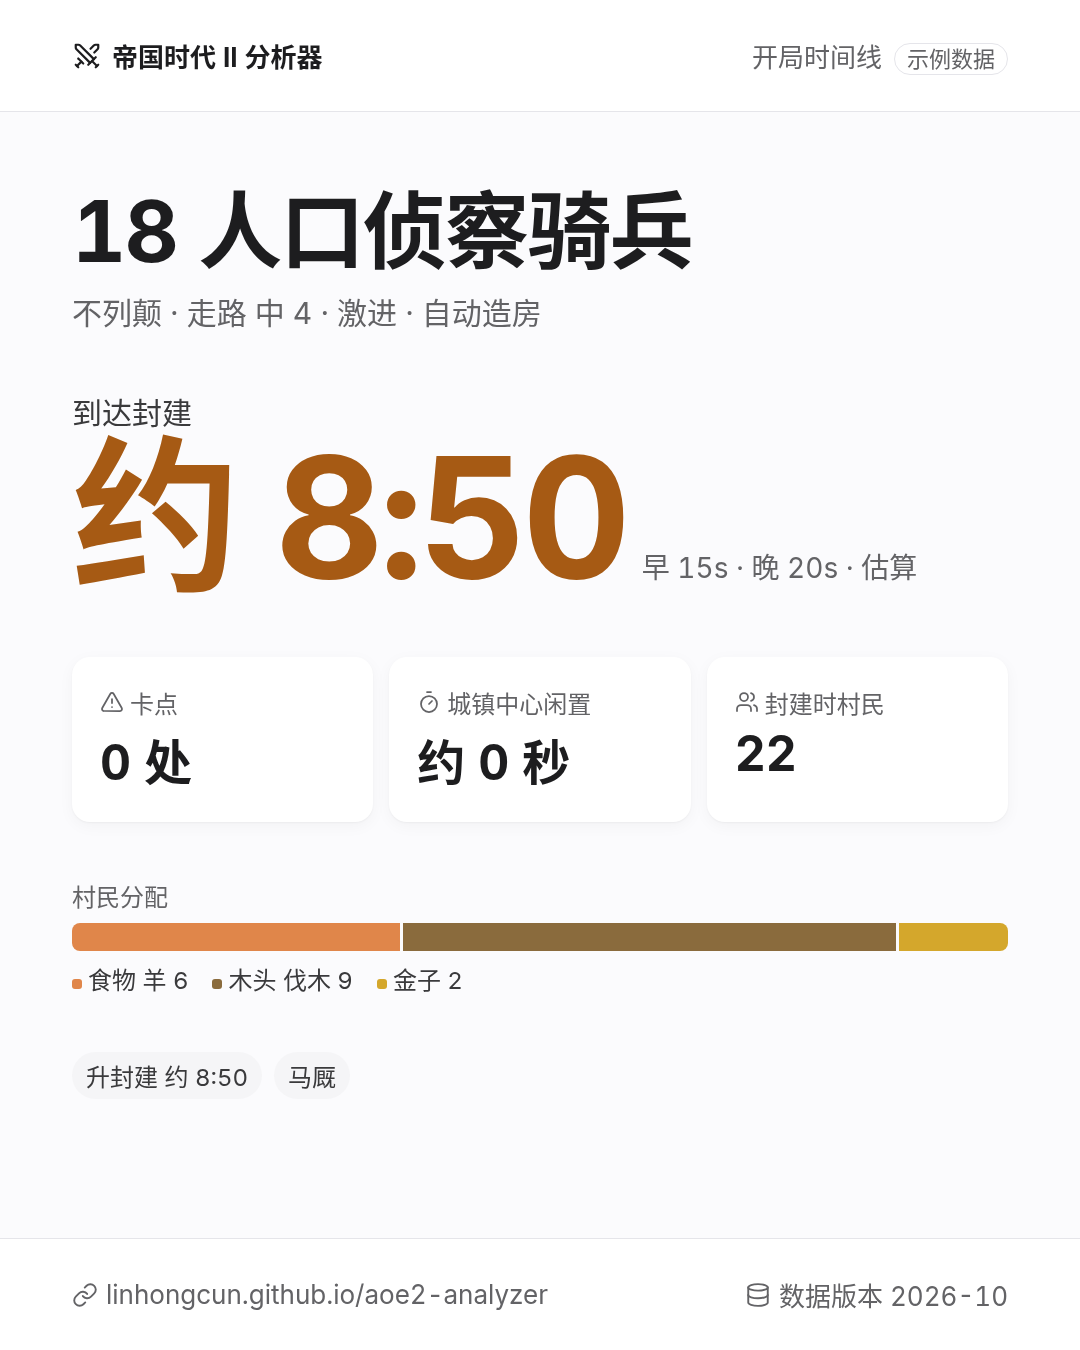
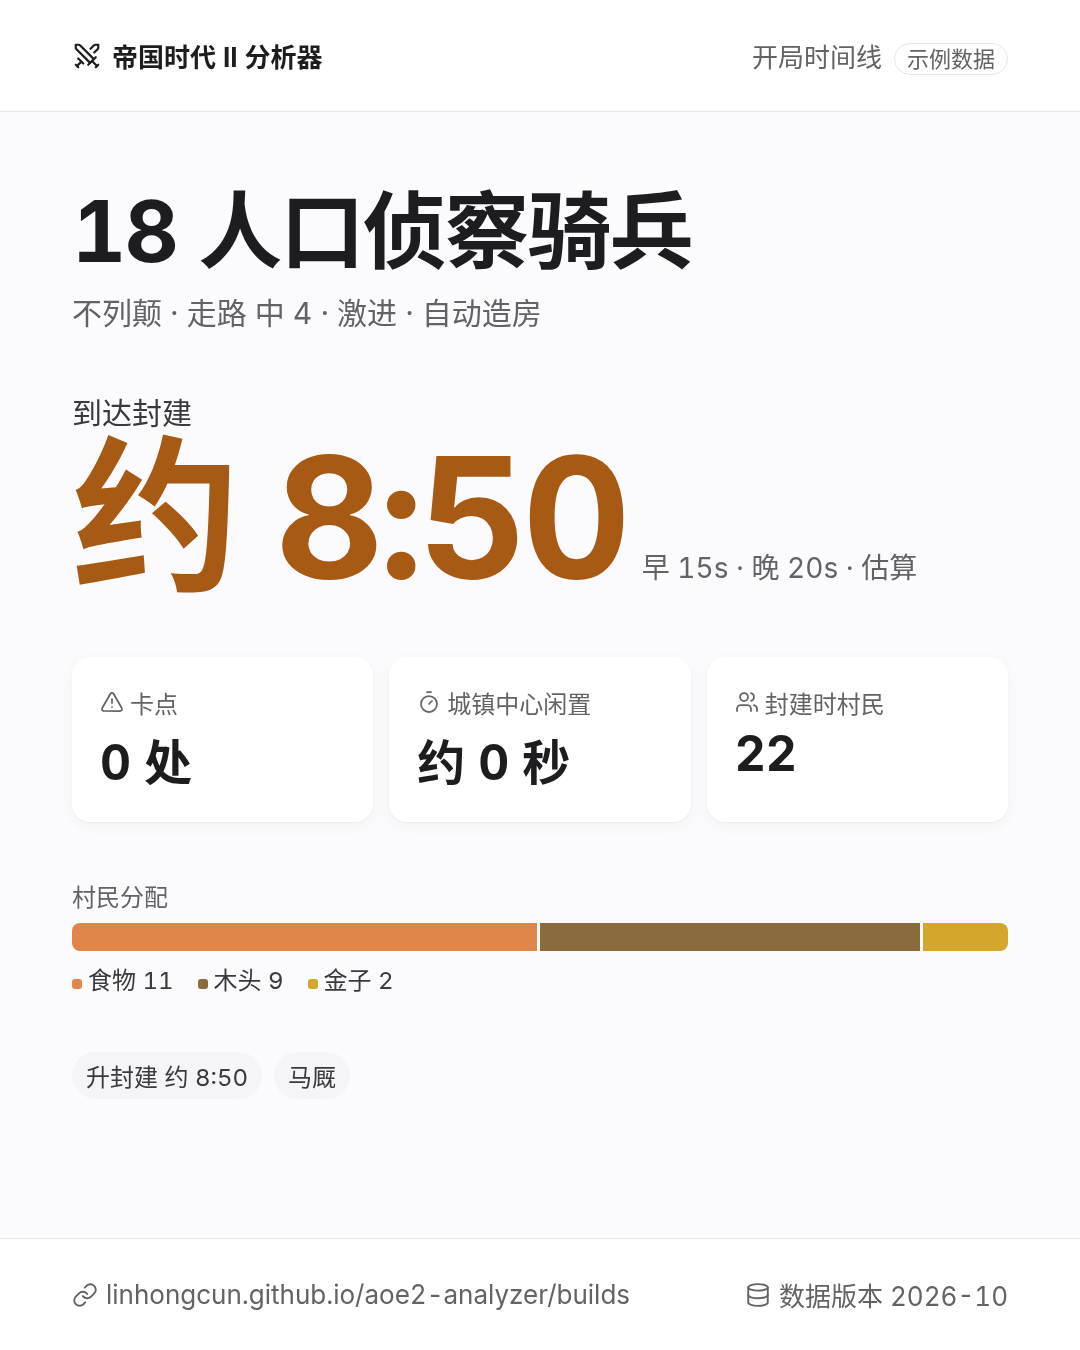
design(#19): 分享卡按 Steve 签字修订 — 分配合计 22、竖版底栏 URL

Changed region(s): [[0.1222, 0.6844, 0.5194, 0.7467], [0.5194, 0.9333, 0.5806, 0.9644], [0.825, 0.6844, 0.8556, 0.7156]]

diff --git a/docs/design/mockups/issue19/share-card/portrait-1080x1350.html b/docs/design/mockups/issue19/share-card/portrait-1080x1350.html
@@ -15,4 +15,4 @@ h1{font-size:84px;line-height:1.15;letter-spacing:-.02em}.meta{font-size:30px;co
 .up{display:flex;gap:12px;font-size:24px;flex-wrap:wrap}.up span{background:#f5f5f7;border-radius:999px;padding:6px 14px;color:#3a3a3c}
 </style><body><div class=c><div class=top><span class=wm><svg xmlns="http://www.w3.org/2000/svg" width="30" height="30" viewBox="0 0 24 24" fill="none" stroke="currentColor" stroke-width="1.75" stroke-linecap="round" stroke-linejoin="round" class="lucide lucide-swords" aria-hidden="true"><path d="m13 19 6-6"></path><path d="M14.5 17.5 3.586 6.586A2 2 0 013 5.172V3h2.172a2 2 0 011.414.586L17.5 14.5"></path><path d="m14.828 6.172 2.586-2.586A2 2 0 0118.828 3H21v2.172a2 2 0 01-.586 1.414l-2.586 2.586"></path><path d="m16 16 4 4"></path><path d="m19 21 2-2"></path><path d="m5 14 4 4"></path><path d="m5 21-2-2"></path><path d="M7.5 16.5 4 20"></path></svg>帝国时代 II 分析器</span><span class=kind>开局时间线<span class=ex>示例数据</span></span></div>
 <div class=b><div><h1>18 人口侦察骑兵</h1><div class=meta>不列颠 · 走路 中 4 · 激进 · 自动造房</div></div>
-<div><div class=hl>到达封建</div><div class=hero><span class=hn>约 8:50</span><span class=he>早 15s · 晚 20s · 估算</span></div></div><div class=st><div class=s><div class=l><svg xmlns="http://www.w3.org/2000/svg" width="24" height="24" viewBox="0 0 24 24" fill="none" stroke="currentColor" stroke-width="1.75" stroke-linecap="round" stroke-linejoin="round" class="lucide lucide-triangle-alert lucide-alert-triangle" aria-hidden="true"><path d="m21.73 18-8-14a2 2 0 0 0-3.48 0l-8 14A2 2 0 0 0 4 21h16a2 2 0 0 0 1.73-3"></path><path d="M12 9v4"></path><path d="M12 17h.01"></path></svg>卡点</div><div class=v>0 处</div></div><div class=s><div class=l><svg xmlns="http://www.w3.org/2000/svg" width="24" height="24" viewBox="0 0 24 24" fill="none" stroke="currentColor" stroke-width="1.75" stroke-linecap="round" stroke-linejoin="round" class="lucide lucide-timer" aria-hidden="true"><line x1="10" x2="14" y1="2" y2="2"></line><line x1="12" x2="15" y1="14" y2="11"></line><circle cx="12" cy="14" r="8"></circle></svg>城镇中心闲置</div><div class=v>约 0 秒</div></div><div class=s><div class=l><svg xmlns="http://www.w3.org/2000/svg" width="24" height="24" viewBox="0 0 24 24" fill="none" stroke="currentColor" stroke-width="1.75" stroke-linecap="round" stroke-linejoin="round" class="lucide lucide-users" aria-hidden="true"><path d="M16 21v-2a4 4 0 0 0-4-4H6a4 4 0 0 0-4 4v2"></path><path d="M16 3.128a4 4 0 0 1 0 7.744"></path><path d="M22 21v-2a4 4 0 0 0-3-3.87"></path><circle cx="9" cy="7" r="4"></circle></svg>封建时村民</div><div class=v>22</div></div></div><div class=al><div class=l>村民分配</div><div class=bar><i style="flex:6;background:#e0864a"></i><i style="flex:9;background:#8a6b3d"></i><i style="flex:2;background:#d4a72c"></i></div><div class=lg><span><b style="background:#e0864a"></b>食物 羊 6</span><span><b style="background:#8a6b3d"></b>木头 伐木 9</span><span><b style="background:#d4a72c"></b>金子 2</span></div></div><div class=up><span>升封建 约 8:50</span><span>马厩</span></div></div><div class=ft><span><svg xmlns="http://www.w3.org/2000/svg" width="26" height="26" viewBox="0 0 24 24" fill="none" stroke="currentColor" stroke-width="1.75" stroke-linecap="round" stroke-linejoin="round" class="lucide lucide-link" aria-hidden="true"><path d="M10 13a5 5 0 0 0 7.54.54l3-3a5 5 0 0 0-7.07-7.07l-1.72 1.71"></path><path d="M14 11a5 5 0 0 0-7.54-.54l-3 3a5 5 0 0 0 7.07 7.07l1.71-1.71"></path></svg>linhongcun.github.io/aoe2-analyzer</span><span><svg xmlns="http://www.w3.org/2000/svg" width="26" height="26" viewBox="0 0 24 24" fill="none" stroke="currentColor" stroke-width="1.75" stroke-linecap="round" stroke-linejoin="round" class="lucide lucide-database" aria-hidden="true"><ellipse cx="12" cy="5" rx="9" ry="3"></ellipse><path d="M3 5V19A9 3 0 0 0 21 19V5"></path><path d="M3 12A9 3 0 0 0 21 12"></path></svg>数据版本 2026-10</span></div></div>
+<div><div class=hl>到达封建</div><div class=hero><span class=hn>约 8:50</span><span class=he>早 15s · 晚 20s · 估算</span></div></div><div class=st><div class=s><div class=l><svg xmlns="http://www.w3.org/2000/svg" width="24" height="24" viewBox="0 0 24 24" fill="none" stroke="currentColor" stroke-width="1.75" stroke-linecap="round" stroke-linejoin="round" class="lucide lucide-triangle-alert lucide-alert-triangle" aria-hidden="true"><path d="m21.73 18-8-14a2 2 0 0 0-3.48 0l-8 14A2 2 0 0 0 4 21h16a2 2 0 0 0 1.73-3"></path><path d="M12 9v4"></path><path d="M12 17h.01"></path></svg>卡点</div><div class=v>0 处</div></div><div class=s><div class=l><svg xmlns="http://www.w3.org/2000/svg" width="24" height="24" viewBox="0 0 24 24" fill="none" stroke="currentColor" stroke-width="1.75" stroke-linecap="round" stroke-linejoin="round" class="lucide lucide-timer" aria-hidden="true"><line x1="10" x2="14" y1="2" y2="2"></line><line x1="12" x2="15" y1="14" y2="11"></line><circle cx="12" cy="14" r="8"></circle></svg>城镇中心闲置</div><div class=v>约 0 秒</div></div><div class=s><div class=l><svg xmlns="http://www.w3.org/2000/svg" width="24" height="24" viewBox="0 0 24 24" fill="none" stroke="currentColor" stroke-width="1.75" stroke-linecap="round" stroke-linejoin="round" class="lucide lucide-users" aria-hidden="true"><path d="M16 21v-2a4 4 0 0 0-4-4H6a4 4 0 0 0-4 4v2"></path><path d="M16 3.128a4 4 0 0 1 0 7.744"></path><path d="M22 21v-2a4 4 0 0 0-3-3.87"></path><circle cx="9" cy="7" r="4"></circle></svg>封建时村民</div><div class=v>22</div></div></div><div class=al><div class=l>村民分配</div><div class=bar><i style="flex:11;background:#e0864a"></i><i style="flex:9;background:#8a6b3d"></i><i style="flex:2;background:#d4a72c"></i></div><div class=lg><span><b style="background:#e0864a"></b>食物 11</span><span><b style="background:#8a6b3d"></b>木头 9</span><span><b style="background:#d4a72c"></b>金子 2</span></div></div><div class=up><span>升封建 约 8:50</span><span>马厩</span></div></div><div class=ft><span><svg xmlns="http://www.w3.org/2000/svg" width="26" height="26" viewBox="0 0 24 24" fill="none" stroke="currentColor" stroke-width="1.75" stroke-linecap="round" stroke-linejoin="round" class="lucide lucide-link" aria-hidden="true"><path d="M10 13a5 5 0 0 0 7.54.54l3-3a5 5 0 0 0-7.07-7.07l-1.72 1.71"></path><path d="M14 11a5 5 0 0 0-7.54-.54l-3 3a5 5 0 0 0 7.07 7.07l1.71-1.71"></path></svg>linhongcun.github.io/aoe2-analyzer/builds</span><span><svg xmlns="http://www.w3.org/2000/svg" width="26" height="26" viewBox="0 0 24 24" fill="none" stroke="currentColor" stroke-width="1.75" stroke-linecap="round" stroke-linejoin="round" class="lucide lucide-database" aria-hidden="true"><ellipse cx="12" cy="5" rx="9" ry="3"></ellipse><path d="M3 5V19A9 3 0 0 0 21 19V5"></path><path d="M3 12A9 3 0 0 0 21 12"></path></svg>数据版本 2026-10</span></div></div>
